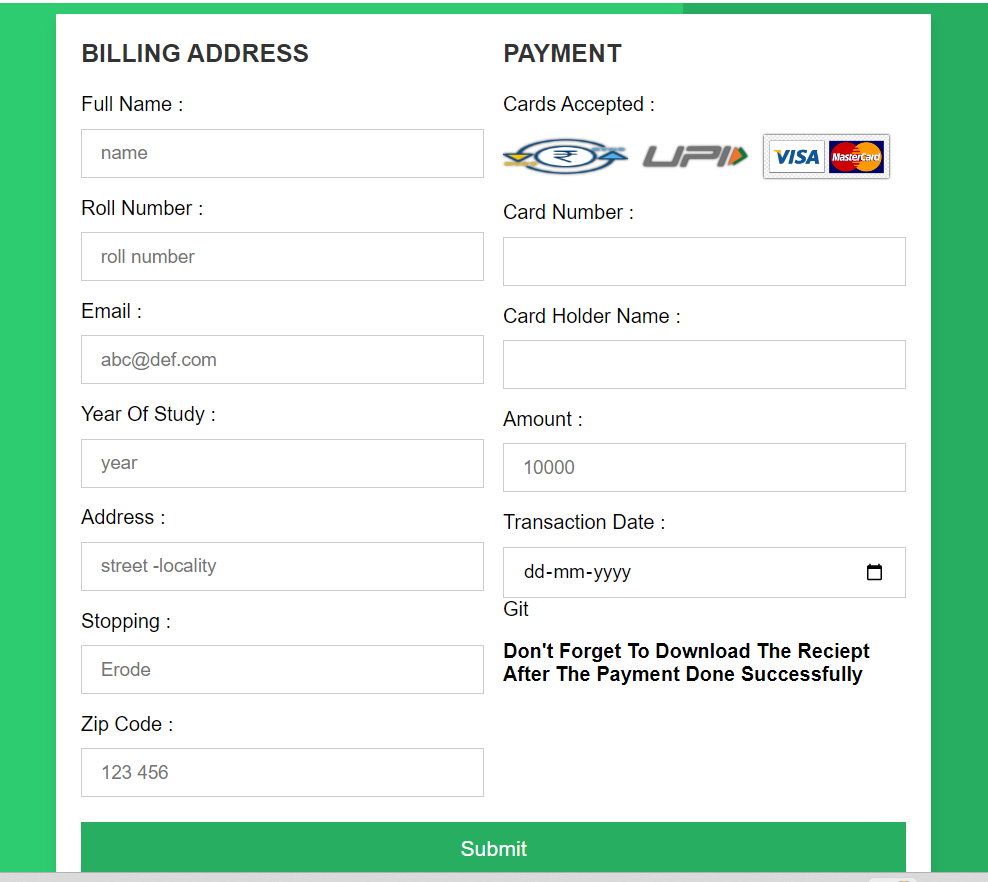
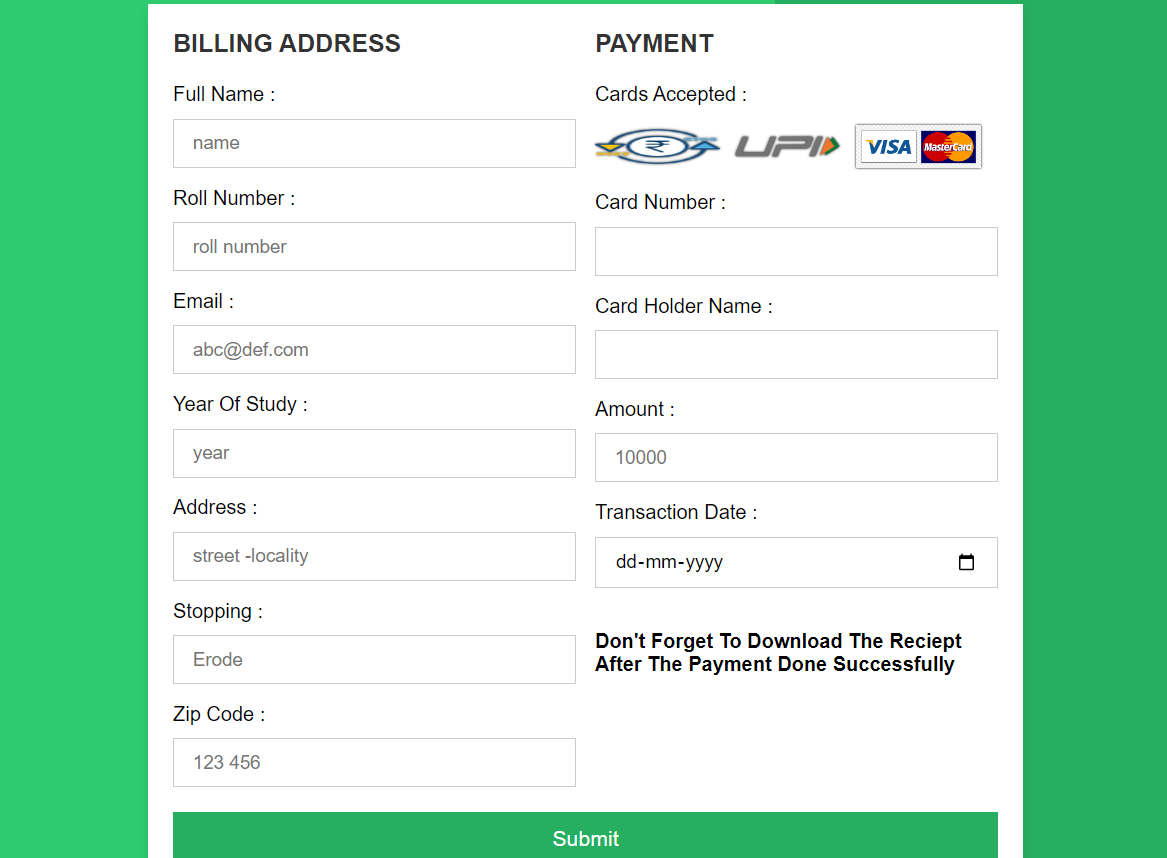
altered

diff --git a/public/demo.html b/public/demo.html
@@ -177,11 +177,8 @@
 
                 <div class="inputBox">
                   <span>Transaction Date :</span>
-                  <input type="date" id="date" name="date">git 
-                </div>  
-<!-- 
-                <span>QR Code:</span><br><br>
-                <div id="qrcode"></div> -->
+                  <input type="date" id="date" name="date">
+                </div>  <br>
               
                 <h4>Don't forget to download the reciept after the payment done successfully</h4>
 

diff --git a/README.md b/README.md
@@ -1,17 +1,103 @@
-## BUS FEES MANAGEMENT
+# BUS FEES MANAGEMENT
 
- <img src="./screenshots/frontpage.png" alt="frontpage" />
+## Project Overview
 
- <img src="./screenshots/login&signup.png" alt="login&signup" />
+  A site where students can check their transport fee and admin can track the fees of the student in regular basis.
 
- <img src="./screenshots/student.png" alt="student" />
+## Features
 
-  <img src="./screenshots/Bus_details.png" alt="Bus_details" />
+## User Management
 
- <img src="./screenshots/payment_form.png" alt="payment_form" />
+- **User Registration and Login**: Allow students, parents, and administrators to create accounts and log in securely.
+- **Role-Based Access Control**: Different levels of access for students, parents, and administrators.
 
- <img src="./screenshots/admin.png" alt="admin" />
+## Fees Management
 
- <img src="./screenshots/paid_unpaid.png" alt="paid_unpaid" />
+- **Fees Structure Setup**: Administrators can set up different fee structures based on routes, distances, and other criteria.
+- **Fee Calculation**: Automatic calculation of fees based on the selected route and other factors.
+- **Scholarships**: Ability to apply scholarships to eligible students.
+
+## Payment Management
+
+- **Online Payment Integration**: Integrate with payment gateways (like PayPal, Stripe) to allow online fee payments.
+- **Payment History**: Students and parents can view the history of payments made.
+
+## Technology Stack
+
+- **Frontend**: HTML , Bootstrap
+- **Backend**: Node.js, Express.js
+- **Database**: MongoDB
+
+
+## Installation
+
+1. **Clone the repository**
+    ```sh
+    git clone https://github.com/Sowmika-Arul/Bus-Fees-Management.git
+    cd Bus-Fees-Management
+    ```
+
+2. **Install dependencies for the backend**
+    ```sh
+    cd backend
+    npm install
+    ```
+
+4. **Set up environment variables**
+
+    Create a `.env` file in the backend directory for the following content:
+    ```plaintext
+    PORT=5000
+    MONGODB_URI=your_mongodb_connection_string
+    ```
+
+5. **Run the backend server**
+    ```sh
+    cd backend
+    node server.js
+    ```
+
+## Usage
+
+1. **Access the Application**
+    Open your web browser and navigate to `http://localhost:5000`.
+
+2. **Log in with appropriate credentials**
+    - Admin
+    - Student
+
+## **Screenshots**
+
+<br>
+
+1. **Frontpage**
+
+ <br><img src="./screenshots/frontpage.png" alt="frontpage" /><br>
+
+2. **Signup and Login page**
+
+ <br><img src="./screenshots/login&signup.png" alt="login&signup" /><br>
+
+3. **Student Page**
+
+ <br><img src="./screenshots/student.png" alt="student" /><br>
+
+4. **Bus Details**
+
+<br><img src="./screenshots/Bus_details.png" alt="Bus_details" /><br>
+
+5. **Payment_Form**
+
+<br><img src="./screenshots/payment_form.png" alt="payment_form" /><br>
+
+6. **Admin page**
+
+<br><img src="./screenshots/admin.png" alt="admin" /><br>
+
+7. **Paid or Unpaid**
+
+<br><img src="./screenshots/paid_unpaid.png" alt="paid_unpaid" /><br>
  
- <img src="./screenshots/Database.png" alt="Database" />
+ 8. **Database**
+
+ <br><img src="./screenshots/Database.png" alt="Database" /><br>
